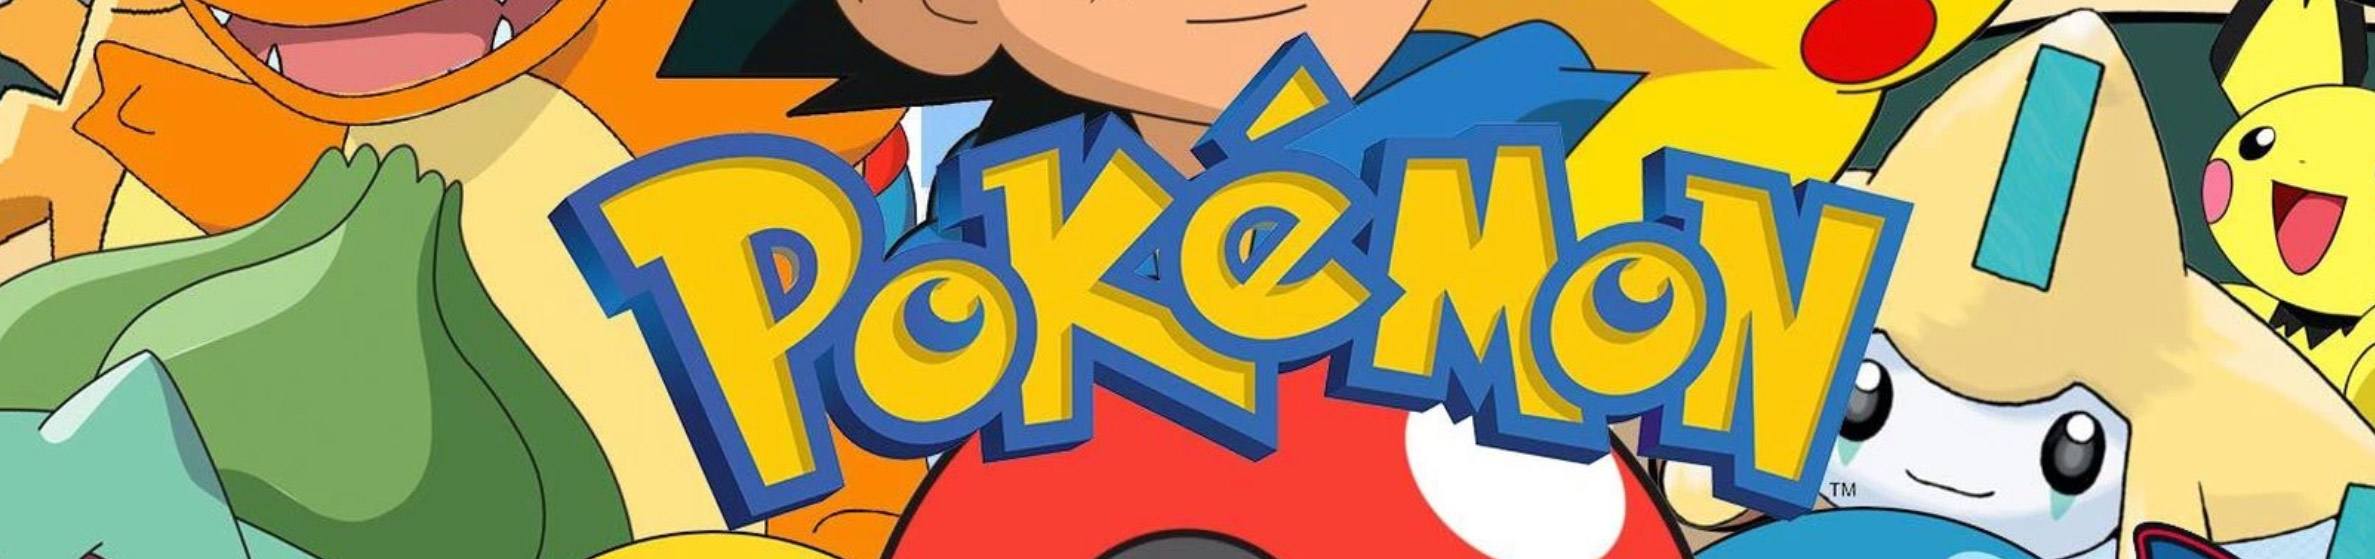
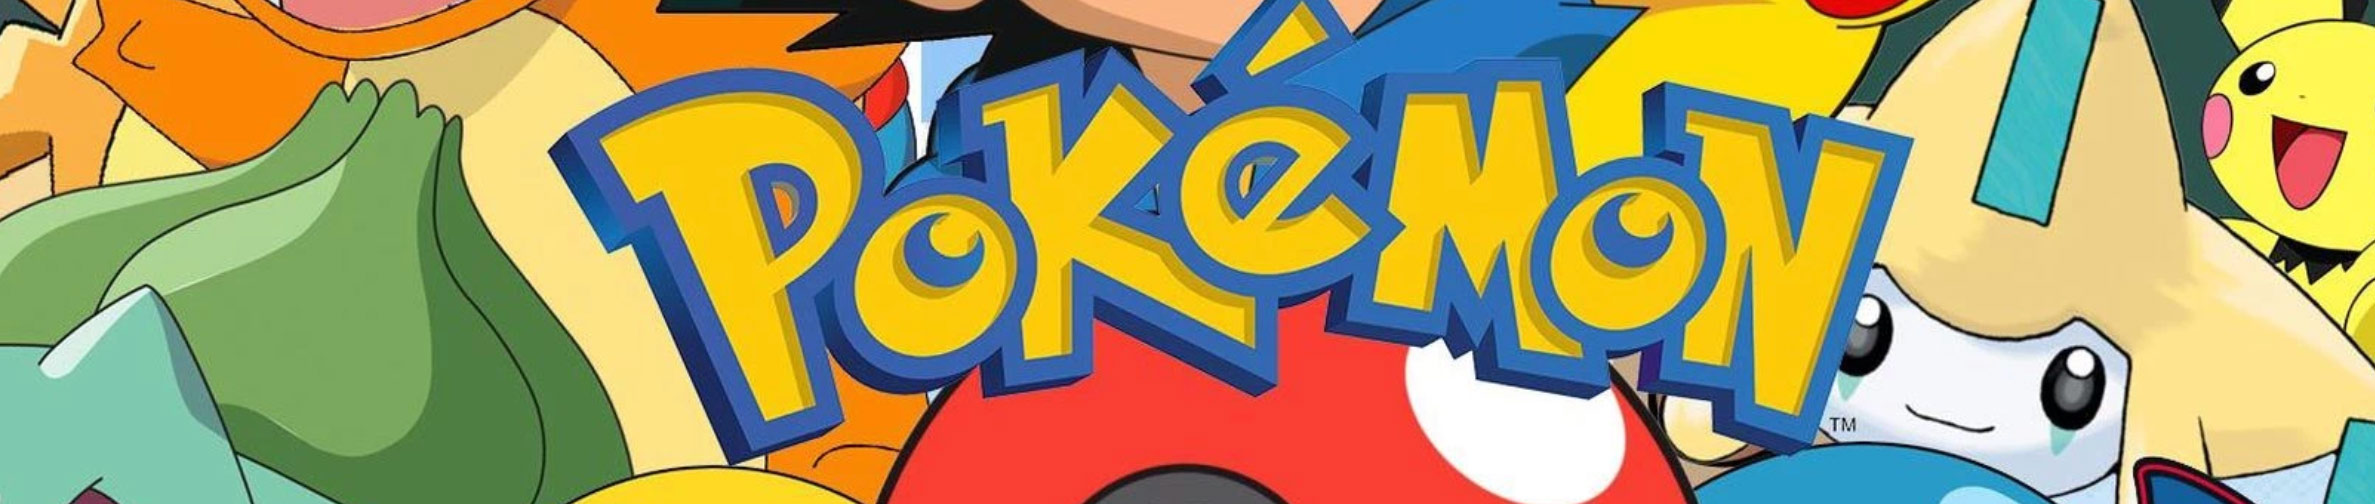
create by name

diff --git a/styles/pokeStyle.css b/styles/pokeStyle.css
@@ -1,4 +1,4 @@
-body, main { 
+body, main, h5, div { 
     margin: 0px;
     padding: 0px;
 }
@@ -10,8 +10,7 @@ body {
 }
 
 
-
-#headImg {
+.headImg {
   margin: 0px;
   width: 100%;
   border-radius: 0px;
@@ -20,10 +19,12 @@ body {
 
 }
 
+
+
 #spacer {
-  background-color: black;
-  padding: 15px;
-  margin-top: 0px;
+  background-color: #0a2f86;
+  padding: 10px;
+  margin: 0px;
   border-bottom: 3px solid red;
   
 }
@@ -35,19 +36,34 @@ body {
 }
 
 main {
-    margin: 0px;
-    display: grid;
+     display: grid;
     grid-template-columns: repeat(auto-fit, minmax(200px, 1fr));
     grid-gap: 1rem;
-    padding-bottom: 5rem;
+    padding-top: 1rem;
+    padding-bottom: 2.5rem;
     /* background: linear-gradient(to bottom, black 15%, rgba(68, 67, 78, 0.945) 100%)  */
     
+}
+
+#leader {
+  color: white;
+  text-align: center;
+  padding: 15px 0px 10px 0px;
+  font-size: 3rem;
+  font-weight: 700;
+  text-shadow: 2px 2px 8px black;
+  border-bottom: white solid 4px;
+  box-shadow: 0px 3px 0px rgba(0,0,0.4);
+  margin: 15px;
+  
+  
 }
 
 
 img {
     width: 150px;
     margin-top: 25px;
+    margin-bottom: 0px;
 
 }
 
@@ -59,7 +75,6 @@ img {
     perspective: 600px;
     border-radius: 10px;
     line-height: 85px;
-    
   }
   
   .card {
@@ -70,8 +85,6 @@ img {
     cursor: pointer;
     position: relative;
 
-    
-    
   }
   
   .card.is-flipped {
@@ -95,7 +108,7 @@ img {
      background: radial-gradient(white, black);
      border-radius: 10px;
      font-size: 20px;
-     box-shadow: 2px 2px 8px red;
+     box-shadow: 2px 2px 8px black;
      
   }
   
@@ -103,16 +116,23 @@ img {
     display: flex;
     
     flex-direction: column;
-    background: black;
+    align-items: center;
+    background: linear-gradient(to bottom, black 75%, white 100%);
     transform: rotateY(180deg);
     border-radius: 10px;
     box-shadow: 2px 2px 8px blue;
+    
   }
 
   h3 {
+      color: #0a2f86;
       margin: 0px;
       line-height: 50px;
       font-size: 1.5rem;
+      background-color: #f5ca46;
+      border-radius: 0px 0px 10px 10px;
+      border-top: 1px solid #CCC;
+      border-bottom: 1px solid #CCC;
   }
   
 button {
@@ -122,8 +142,8 @@ button {
     font-weight: 700;
     font-size: 1.5rem;
     border-radius: 15px;
-    color: blue;
-    border: 2px solid blue;
+    color: #0a2f86;
+    border: 2px solid #0a2f86;
     margin-bottom: 3rem;
 
 }
@@ -138,13 +158,7 @@ button:hover {
   border: 2px solid white;
 }
 
-p {
-  font-size: 13px;
-  display: flex;
-  margin: 10px;
-  line-height: 20px;
-  align-items: left;
-}
+
 
 .sprite {
   display: flex;
@@ -161,22 +175,43 @@ p {
 }
 
 #additional {
-  color: blue;
+  color: white;
   text-align: center;
+  font-size: 3rem;
+  text-shadow: 2px 2px 8px black;
   margin-top: 0px;
 }
+
+h6.how {
+  color: white;
+  text-align: center;
+  font-size: 1.5rem;
+  text-shadow: 2px 2px 8px black;
+  margin-top: 0px;
+  margin-bottom: 0px;
+  font-weight: 400;
+}
+
 
 #moreCard {
   display: flex;
   justify-content: center;
-  margin-top: 50px;
+  margin-top: 45px;
+}
+
+p {
+  font-size: 13px;
+  display: flex;
+  margin: 10px;
+  line-height: 20px;
+
 }
 
 footer { 
   display: flex;
   justify-content: flex-end;
-  background-color: black;
-  padding: 35px;
+  background-color: #0a2f86;
+  padding: 15px;
   border-top: 3px solid red;
 }
 
@@ -185,3 +220,4 @@ footer p {
    font-size: 1rem;
    color: white;
 }
+

diff --git a/js/pokemon.js b/js/pokemon.js
@@ -33,7 +33,7 @@ document.querySelector('#idButton').addEventListener('click', () => {
     console.log(pokeId)
     let pokeIdNum = parseInt(pokeId, 10)
     if (pokeIdNum > 807) {
-        alert('Id Number Does not exsist')
+        alert('Id Number Does not Exist')
         return
     } else {
         getAPIData(`https://pokeapi.co/api/v2/pokemon/${pokeId}`)
@@ -44,12 +44,27 @@ document.querySelector('#idButton').addEventListener('click', () => {
     }
 })
 
+
+document.querySelector('#nameButton').addEventListener('click', () => {
+    let newPokeName = prompt('Enter the Pokemons Name')
+    console.log(newPokeName)
+    let pokeName = `${newPokeName[0].toLowerCase()}${newPokeName.slice(1)}`
+    console.log(pokeName)
+        getAPIData(`https://pokeapi.co/api/v2/pokemon/${pokeName}`)
+        .then(result => {
+            populateDOM(result)
+   
+    })
+    
+})
+
 document.querySelector('#randButton').addEventListener('click', () => {
     let pokeId = getRandom(26, 808)
     getAPIData(`https://pokeapi.co/api/v2/pokemon/${pokeId}`)
         .then(result => {
             populateDOM(result)
     })   
+    .catch(error => console.log(error))
 })
 
 
@@ -140,7 +155,7 @@ function fillCardBack(pokeBack, data) {
     
     pokeOrder.textContent = `${data.name[0].toUpperCase()}${data.name.slice(1)} ID# = ${data.id}`
     pokeOrder.textContent = `Pokemon ID# = ${data.id}`
-    pokeHP.textContent = `Hit Points = ${data.hp}` 
+    pokeHP.textContent = `Hit Points = ${data.stats[0].base_stat}` 
     pokeType.textContent = `Type = ${data.types[0].type.name[0].toUpperCase()}${data.types[0].type.name.slice(1)}`
     
     pokeAbilit.textContent = `Ability = ${data.abilities[0].ability.name[0].toUpperCase()}${data.abilities[0].ability.name.slice(1)}`

diff --git a/pokemon.html b/pokemon.html
@@ -12,22 +12,29 @@
 <body>
     
     <header>
-        <img src='/images/pokeimages/headerjpg.jpg' id="headImg">
+        <img class="headImg" src='/images/pokeimages/headerjpg.jpg'>
         <div id="spacer"></div>
 
     </header>
    
     <div id="wrap">
+    <div>
+        <h5 id="leader">Pokemon Trading Cards</h5>
+
+    </div>
+
     <main>
+       
             
     </main>
 
     <div>
-    <h1 id="additional">See Additional Pokemon Cards</h1>
+    <h5 id="additional">See Additional Pokemon Cards</h5>
+    <h6 class="how">How would you like to get an additional card?</h6>
     <section id="moreCard">
     <button id="randButton">Random</button>
     <button id="idButton">Id#</button>
-    <button id="idButton">Name</button>
+    <button id="nameButton">Name</button>
     <button id="customButton">Custom</button>
     </section>
     </div>
